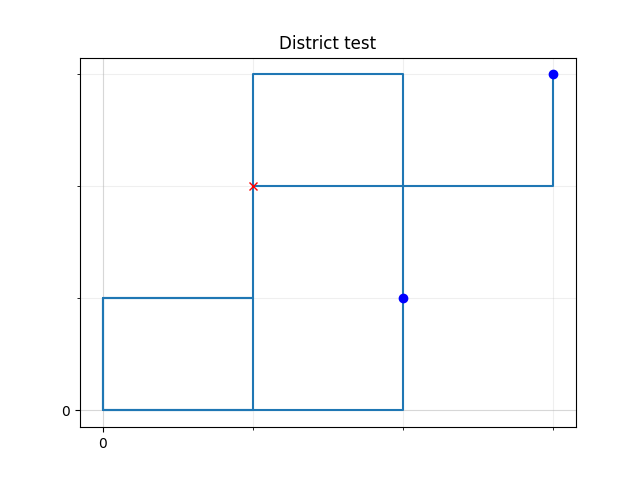
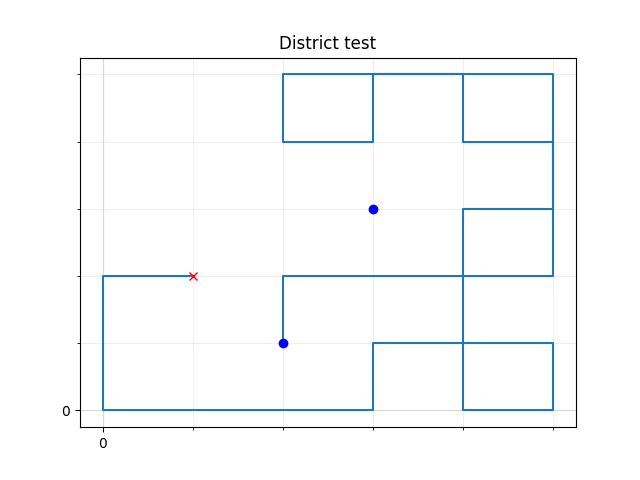
commit all

diff --git a/code/algorithms/random_cables.py b/code/algorithms/random_cables.py
@@ -56,7 +56,7 @@ def random_cables(grid):
                     for battery in other_batteries:
                         
                         # bypass other batteries 
-                        if xtest == battery.position_x or ytest == battery.position_y:
+                        if xtest == battery.position_x and ytest == battery.position_y:
                             valid = False
                     
                     if valid == True:
@@ -89,7 +89,7 @@ def random_cables(grid):
                     for battery in other_batteries:
                         
                         # bypass other batteries 
-                        if xtest == battery.position_x or ytest == battery.position_y:
+                        if xtest == battery.position_x and ytest == battery.position_y:
                             valid = False
                     
                     if valid == True:

diff --git a/code/visualisation/visualise.py b/code/visualisation/visualise.py
@@ -5,7 +5,6 @@ from matplotlib.offsetbox import OffsetImage, AnnotationBbox
 
 def visualise(grid, number):
     plt.grid(b=True, which='major', color='#666666', linestyle='-')
-
     
     # https://stackoverflow.com/questions/24943991/change-grid-interval-and-specify-tick-labels-in-matplotlib
     fig, ax = plt.subplots()
